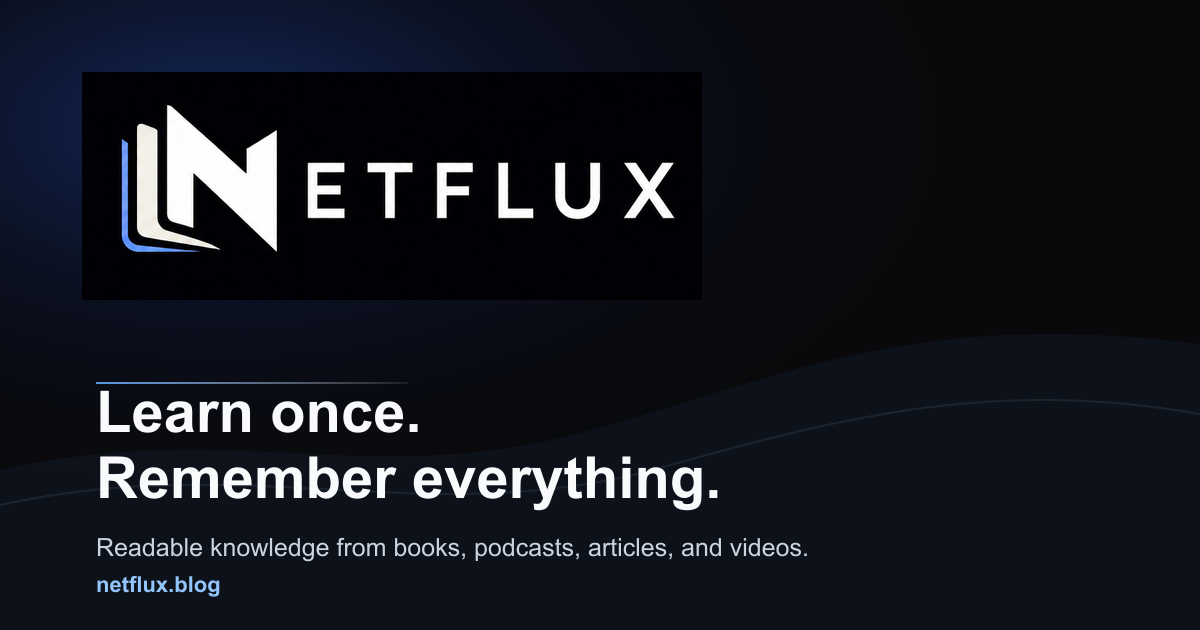
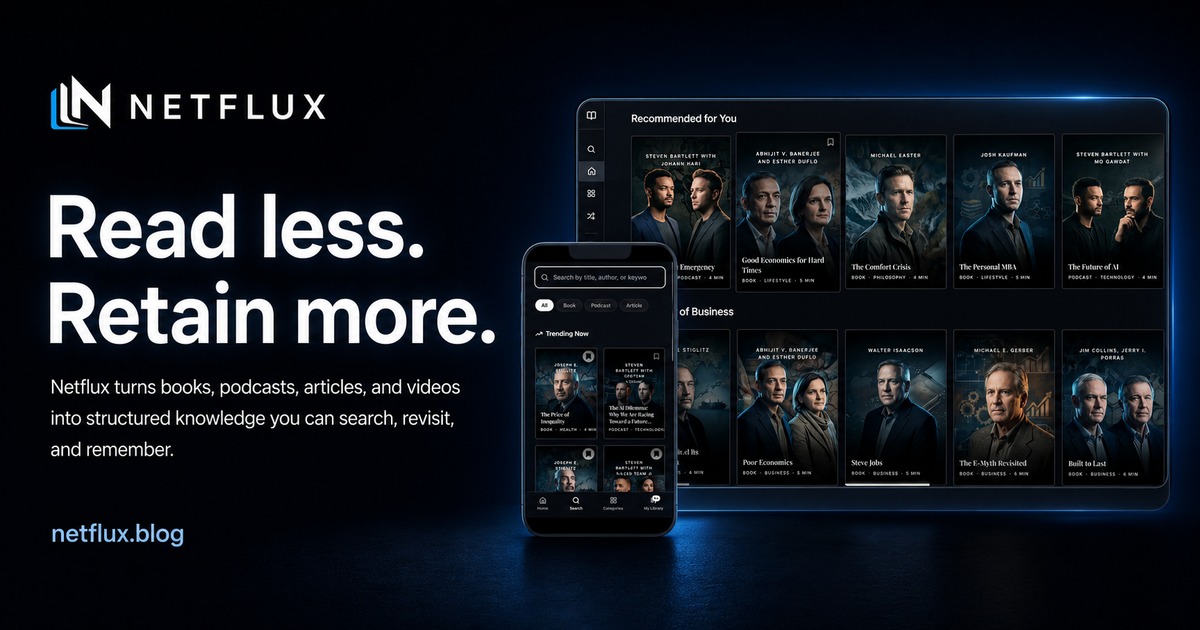
Update Netflux positioning and OG image

diff --git a/components/ui/LandingPage.tsx b/components/ui/LandingPage.tsx
@@ -263,7 +263,7 @@ function HeroSection() {
         <div className="max-w-2xl">
           <div>
             <p className="mb-8 text-[0.72rem] font-semibold uppercase tracking-[0.24em] text-zinc-400">
-              A knowledge system for non-fiction ideas
+              A summary-first knowledge system
             </p>
           </div>
 
@@ -279,7 +279,7 @@ function HeroSection() {
 
           <div>
             <p className="mt-8 max-w-xl text-lg leading-8 text-zinc-300 sm:text-[1.18rem]">
-              Netflux turns books, podcasts, articles, and videos into readable knowledge: structured summaries, persistent highlights, and an AI that knows what you&apos;ve saved.
+              Netflux turns books, podcasts, articles, and videos into structured knowledge you can search, revisit, and remember.
             </p>
           </div>
 

diff --git a/app/layout.tsx b/app/layout.tsx
@@ -28,7 +28,7 @@ const playfair = Playfair_Display({
 
 const siteUrl = process.env.NEXT_PUBLIC_SITE_URL ?? "https://www.netflux.blog";
 const description =
-  "A knowledge system for non-fiction ideas across books, podcasts, articles, and videos. Turn every format into readable knowledge you can highlight, save, and retrieve.";
+  "Netflux turns books, podcasts, articles, and videos into structured knowledge you can search, revisit, and remember.";
 const showVercelTelemetry = process.env.NODE_ENV === "production";
 
 export const metadata: Metadata = {

diff --git a/app/manifest.ts b/app/manifest.ts
@@ -7,7 +7,7 @@ export default function manifest(): MetadataRoute.Manifest {
     return {
         name: `${APP_NAME} — Readable Knowledge`,
         short_name: APP_NAME,
-        description: "Readable knowledge from books, podcasts, articles, and videos.",
+        description: "A summary-first knowledge system for books, podcasts, articles, and videos.",
         start_url: "/",
         display: "standalone",
         background_color: "#09090b",

diff --git a/lib/brand.ts b/lib/brand.ts
@@ -1,2 +1,2 @@
 export const APP_NAME = "Netflux";
-export const APP_TAGLINE = "Learn once. Remember everything.";
+export const APP_TAGLINE = "Read less. Retain more.";

diff --git a/docs/POSITIONING.md b/docs/POSITIONING.md
@@ -8,11 +8,13 @@
 
 ## 1. One-Liner
 
-> Netflux is a knowledge system for people who want to remember the best non-fiction ideas from books, podcasts, articles, and videos.
+> Netflux is a summary-first knowledge system.
+>
+> Netflux turns books, podcasts, articles, and videos into structured knowledge you can search, revisit, and remember.
 
 Completing the sentence: **"Netflux is ______ for people who ______."**
 
-- ✅ "Netflux is a knowledge system for people who want to remember the best non-fiction ideas from books, podcasts, articles, and videos."
+- ✅ "Netflux is a summary-first knowledge system that turns books, podcasts, articles, and videos into structured knowledge you can search, revisit, and remember."
 - ❌ "Netflux is a book summary app, but also a podcast app, and also an article reader, and also a video library..."
 
 The product can serve many audiences. The **message** speaks to one.
@@ -43,10 +45,10 @@ The gap they all share: **they help you capture, but not comprehend or retrieve.
 
 ## 3. Product Thesis: Distill → Capture → Retrieve
 
-Netflux is not a summary app. It's a **knowledge system** with three connected stages:
+Netflux is not just a summary app. It's a **summary-first knowledge system** with three connected stages:
 
 ### Distill
-Netflux turns books, podcasts, articles, and videos into readable knowledge. Each summary is organized by thesis, argument, and evidence — not just shortened — so you understand the architecture of the idea, not just the headline.
+Netflux turns books, podcasts, articles, and videos into structured knowledge. Each summary is organized by thesis, argument, and evidence — not just shortened — so you understand the architecture of the idea, not just the headline.
 
 ### Capture
 Highlight and annotate while you move through the distilled version. Highlights stay with the content — not in a separate app, not in a disconnected database. Your notes live where the ideas live.
@@ -77,13 +79,13 @@ This is the scenario we reference everywhere — launch posts, demos, pitches, l
 All public-facing copy should pull from this bank. Don't improvise new positioning — adapt these.
 
 ### Tagline
-> Learn once. Remember everything.
+> Read less. Retain more.
 
-### Hero headline (landing page)
-> Learn once. Remember everything.
+### Category line
+> A summary-first knowledge system.
 
 ### Hero subtitle (landing page)
-> Netflux turns books, podcasts, articles, and videos into readable knowledge: structured summaries, persistent highlights, and an AI that knows what you've saved.
+> Netflux turns books, podcasts, articles, and videos into structured knowledge you can search, revisit, and remember.
 
 ### Elevator pitch (30 seconds, spoken)
 > "I built Netflux because I was consuming non-fiction constantly — books, podcasts, articles, videos — and remembering almost nothing. Netflux turns every format into readable knowledge, gives you highlights that actually persist, and lets you ask an AI about anything you've saved. It's a knowledge system: the ideas stay with you."
@@ -96,7 +98,7 @@ All public-facing copy should pull from this bank. Don't improvise new positioni
 > A short email with useful ideas to remember, revisit, and apply.
 
 ### Social bio (Twitter / LinkedIn)
-> Building Netflux — a knowledge system for non-fiction ideas across books, podcasts, articles, and videos.
+> Building Netflux — a summary-first knowledge system that turns books, podcasts, articles, and videos into structured knowledge you can search, revisit, and remember.
 
 ### Footer tagline
 > Netflux — Knowledge without limits.

diff --git a/docs/ARCHITECTURE.md b/docs/ARCHITECTURE.md
@@ -6,7 +6,7 @@
 
 ## 1. Product Shape
 
-Netflux is a knowledge system for non-fiction ideas across books, podcasts, articles, and videos. Visitors can discover readable knowledge distilled from multiple formats without logging in. Authenticated users layer on cross-device state: saved items, reading progress, highlights, notes, reading history, and AI-powered retrieval across their library. Admin users manage publishing, series, homepage sections, media uploads, and embedding operations.
+Netflux is a summary-first knowledge system that turns books, podcasts, articles, and videos into structured knowledge users can search, revisit, and remember. Visitors can discover readable knowledge distilled from multiple formats without logging in. Authenticated users layer on cross-device state: saved items, reading progress, highlights, notes, reading history, and AI-powered retrieval across their library. Admin users manage publishing, series, homepage sections, media uploads, and embedding operations.
 
 Email newsletter subscription is a separate consent surface from login. A visitor can subscribe to weekly emails without creating an account, and a logged-in user is not automatically subscribed.
 

diff --git a/README.md b/README.md
@@ -1,8 +1,10 @@
 # Netflux
 
-> Learn once. Remember everything.
+> Read less. Retain more.
+>
+> A summary-first knowledge system.
 
-Netflux is a knowledge system for non-fiction ideas across books, podcasts, articles, and videos. It turns every format into readable knowledge you can scan in minutes, highlight for keeps, and query with AI when the idea becomes useful again. Built with Next.js, Supabase, and AI retrieval — public-first for discovery, then layered with authenticated reading progress, highlights, notes, and Ask My Library.
+Netflux turns books, podcasts, articles, and videos into structured knowledge you can search, revisit, and remember. Built with Next.js, Supabase, and AI retrieval — public-first for discovery, then layered with authenticated reading progress, highlights, notes, and Ask My Library.
 
 ## What Ships Today
 

diff --git a/docs/BRAND_GUIDELINES.md b/docs/BRAND_GUIDELINES.md
@@ -9,8 +9,9 @@ For messaging, audience, and positioning strategy, refer to [POSITIONING.md](./P
 
 ## 1. Brand Concept & Voice
 
-- **Identity:** A knowledge system for non-fiction ideas across books, podcasts, articles, and videos.
-- **Tagline:** Learn once. Remember everything.
+- **Identity:** A summary-first knowledge system.
+- **Tagline:** Read less. Retain more.
+- **Core promise:** Netflux turns books, podcasts, articles, and videos into structured knowledge you can search, revisit, and remember.
 - **Voice:** Authoritative, clear, minimal, and actionable. We don't speak in buzzwords; we provide pure signal.
 - **Aesthetic Vibe:** "Cinematic Dark Mode", Premium, Uncluttered, Focused.
 

diff --git a/docs/AGENT.md b/docs/AGENT.md
@@ -2,7 +2,7 @@
 
 > **Status:** Active  
 > **Role:** Working snapshot of what is implemented today, not the original MVP pitch.  
-> **Positioning:** Netflux is a knowledge system for non-fiction ideas across books, podcasts, articles, and videos. See [POSITIONING.md](./POSITIONING.md) for messaging and audience strategy.
+> **Positioning:** Netflux is a summary-first knowledge system that turns books, podcasts, articles, and videos into structured knowledge users can search, revisit, and remember. See [POSITIONING.md](./POSITIONING.md) for messaging and audience strategy.
 
 ## 1. Shipped Product Areas
 
